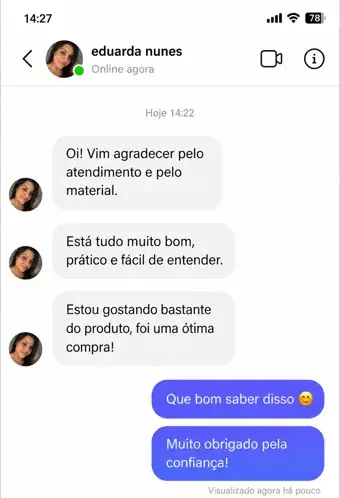
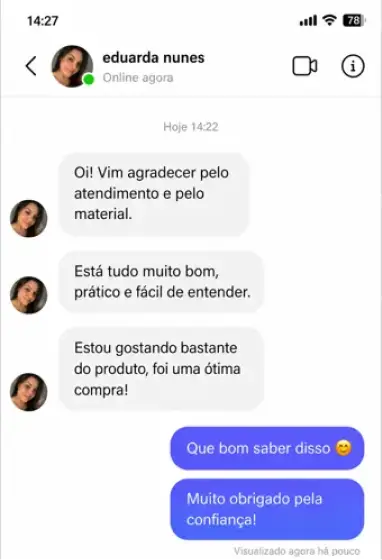
v10

diff --git a/index.html b/index.html
@@ -163,25 +163,10 @@
     <div class="carousel carousel--testimonials" role="region" aria-label="Depoimentos">
       <div class="carousel-track">
         <figure class="card testimonial carousel-item">
-          <div class="media zoomable"></div>
-          <figcaption>
-            <p class="testimonial-name"></p>
-            <p class="testimonial-text"></p>
-          </figcaption>
+          <div class="media zoomable"><img src="assets/depoimento_02_1.webp" alt="Print de mensagem de cliente: Oi! Vim agradecer pelo atendimento e pelo material. Está tudo muito bom, prático e fácil de entender. Estou gostando bastante do produto, foi uma ótima compra!" width="340" height="498" loading="lazy" decoding="async"></div>
         </figure>
         <figure class="card testimonial carousel-item">
-          <div class="media zoomable"></div>
-          <figcaption>
-            <p class="testimonial-name"></p>
-            <p class="testimonial-text"></p>
-          </figcaption>
-        </figure>
-        <figure class="card testimonial carousel-item">
-          <div class="media zoomable"></div>
-          <figcaption>
-            <p class="testimonial-name"></p>
-            <p class="testimonial-text"></p>
-          </figcaption>
+          <div class="media zoomable"><img src="assets/depoimento_03_2.webp" alt="Print de mensagem de cliente: Oi! Queria te agradecer pelo material" width="340" height="266" loading="lazy" decoding="async"></div>
         </figure>
       </div>
     </div>

diff --git a/style.css b/style.css
@@ -161,6 +161,9 @@ section{padding:64px 0}
 /* ---------- 4. PROVA SOCIAL ---------- */
 .testimonial{padding:14px;display:grid;gap:14px;align-content:start}
 .testimonial .media{--ratio:9/16;border-radius:var(--raio-sm)}
+.testimonial .media:has(img){aspect-ratio:auto}
+.testimonial .media img{height:auto}
+.carousel--testimonials .carousel-track{align-items:center}
 .testimonial-name{font-weight:700}
 .testimonial-name:empty,.testimonial-text:empty{display:none}
 .testimonial-text{color:var(--texto-suave);font-size:.98rem}
